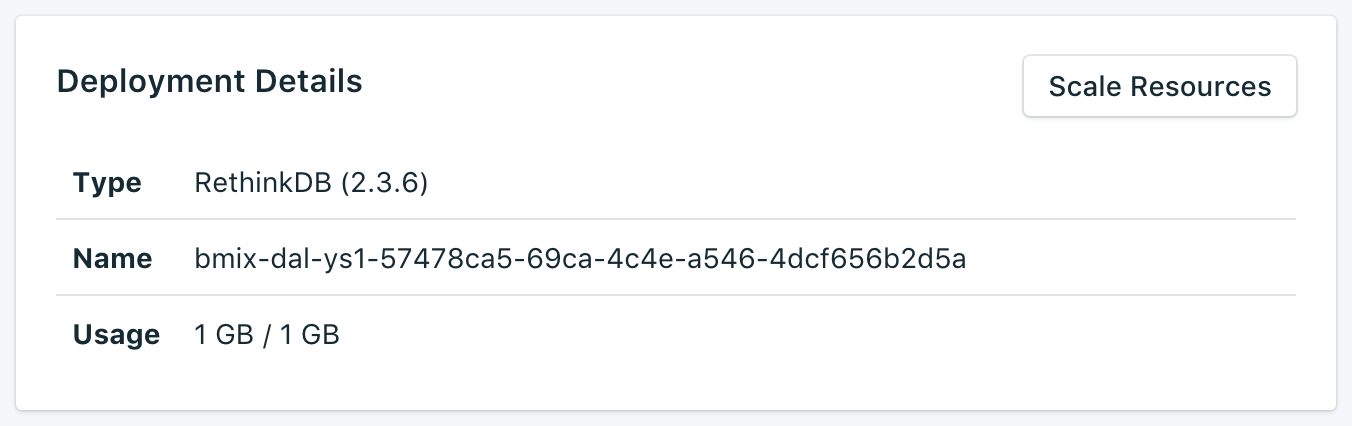
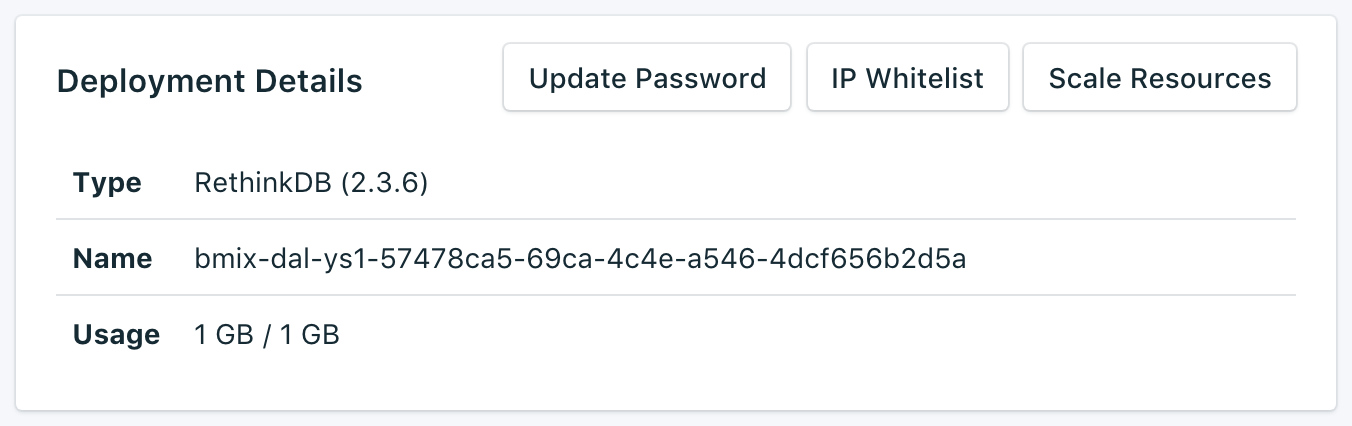
Oct 17 updates

Changed region(s): [[0.3728, 0.0915, 0.963, 0.2746], [0.3728, 0.1526, 0.7456, 0.2136]]

diff --git a/dashboard-whitelists.md b/dashboard-whitelists.md
@@ -1,0 +1,37 @@
+---
+
+Copyright:
+  Years: 2017
+lastupdated: "2017-10-16"
+---
+
+{:new_window: target="_blank"}
+{:shortdesc: .shortdesc}
+{:screen: .screen}
+{:codeblock: .codeblock}
+{:pre: .pre}
+
+# Whitelists
+
+If you want to restrict access to your databases, you can whitelist specific ip addresses or ranges of ip addresses on your service. When there are no IP addresses in the whitelist, the whitelist is disabled and the deployment will accept connections from any system on the internet.
+
+![Whitelisting IPs](./images/rethink-whitelist-show.png "The whitelist fields.")
+
+## IP Addresses
+The *IP* field can take a single complete IPv4 address or IPv6 address with or without a netmask. Without a netmask, incoming connections must come from exactly that IP address. 
+
+Note that although the IP entry allows for IPv6, no Compose deployments are currently available to IPv6 networking and so these addresses cannot be filtered on.
+
+## Netmasks
+To allow a connection from a specified range of IP addresses, use a netmask. The IP address must be fully specified when using a netmask. That means entering, for example, 192.168.1.0/24 rather than 192.168.1/24.
+
+## Description
+The *Description* can be any user-significant text for identifying the whitelist entry - a customer name, project identifier or employee number, for example. The description field is required.
+
+## Compose Services
+Whitelist entries are automatically added to Compose's servers to allow them to connect.
+
+## Removal
+To remove an IP address or netmask from the Whitelist, click the *Remove* entry displayed next to it.
+When all entries on the whitelist are removed, the whitelist will be disabled and all IP addresses will be accepted by the TCP access portals.
+

diff --git a/dashboard-update-service-password.md b/dashboard-update-service-password.md
@@ -1,0 +1,31 @@
+---
+
+Copyright:
+  Years: 2017
+lastupdated: "2017-10-16"
+---
+
+{:new_window: target="_blank"}
+{:shortdesc: .shortdesc}
+{:screen: .screen}
+{:codeblock: .codeblock}
+{:pre: .pre}
+
+# Updating the Service Password
+
+You might find it necessary to change the password of your service. You can do so using _Update Password_. 
+
+A new, randomly generated password will appear, or you can type your own password into the field. To regenerate another password, click on the dice to the right of the field. 
+  
+![Updating the RethinkDB password](./images/rethink-update-password.png "The automatic password generator")
+
+The changes take effect when you click on the **Update Password** button. This will change the credentials that you and your services use to connect and is a part of your service's connection string. The _Deployment Details_ pane will show the progress of the job that is now in progress:
+
+![Update password job running](./images/rethink-update-password-running.png "The Deployment Details pane, showing one running job: Change RethinkDB password running")
+
+## Updating Connected Applications
+Changing the password will invalidate the existing connection string and generate a new one. This will cause a service interruption until connected applications are updated with the new connection string. You will have to do this by suppling the new connection string to your applications.
+
+More information on connecting your applications is in [Connecting a Bluemix Application](./connecting-bluemix-app.html).
+and [Connecting an external application](./connecting-external.html).
+

diff --git a/index.md b/index.md
@@ -29,7 +29,7 @@ When you provision your {{site.data.keyword.composeForRethinkDB}} instance you c
 
 ## Managing Compose for RethinkDB
 
-You can manage your service from the service dashboard. Here you can find information about your Bluemix Compose database and how to connect to it. You can also manage your backups from the dashboard and allocated more resources for your service. For more information, see [Service Overview](./dashboard-overview.html), [Backups](./dashboard-backups.html), and [Scaling Resources](./dashboard-scaling-resources.md).
+You can manage your service from the service dashboard. Here you can find information about your Bluemix Compose database and how to connect to it. You can also manage your backups, allocate more resources for your service, use whitelists to restrict access to your databases, and reset the service password. For more information, see [Service Overview](./dashboard-overview.html), [Backups](./dashboard-backups.html), [Scaling Resources](./dashboard-scaling-resources.html), [Whitelists](./dashboard-whitelists.html), and [Updating the Service Password](./dashboard-update-service-password.html).
 
 ## Connecting to Compose for RethinkDB
 

diff --git a/dashboard-backups.md b/dashboard-backups.md
@@ -2,7 +2,7 @@
 
 copyright:
   years: 2017
-lastupdated: "2017-07-13"
+lastupdated: "2017-10-16"
 ---
 
 {:new_window: target="_blank"}
@@ -21,6 +21,10 @@ You can create and download backups from the *Manage* page of your service dashb
 Daily backups of your database are automatically scheduled. To view your existing backups, navigate to the *Manage* page of your service dashboard. 
 
 ![Backups](./images/rethink-backups-show.png "A list of backups in the service dashboard")
+
+Click on the corresponding row to expand the options for any available backup.
+
+![Backup Options](./images/rethink-backups-options.png "Options for a backup.") 
 
 ## Creating a backup on demand
 
